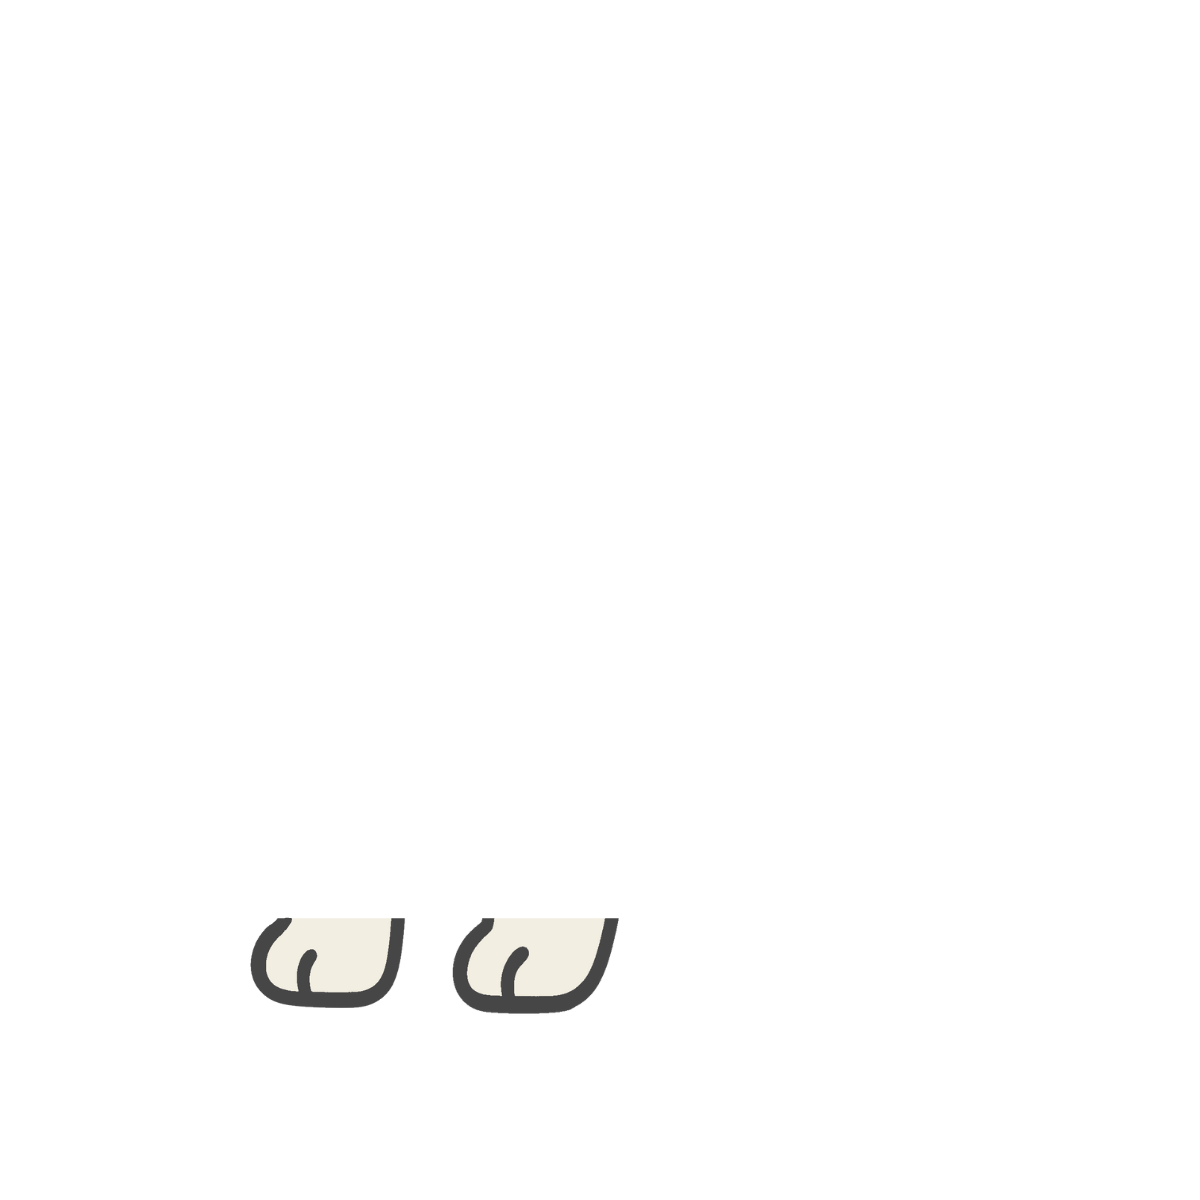
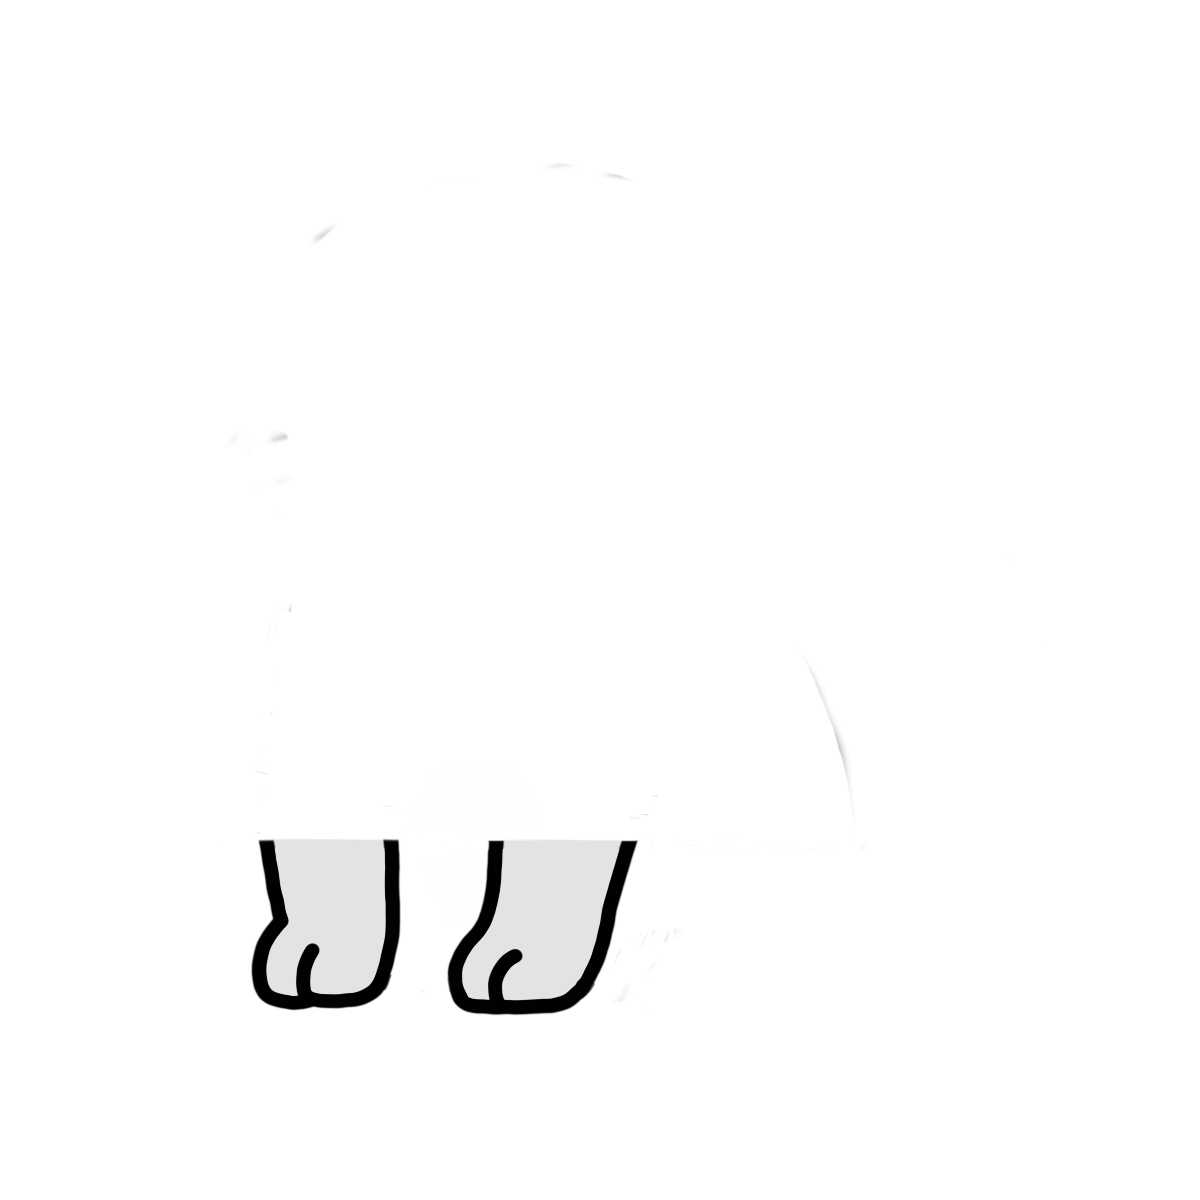
обновление дизайна

Changed region(s): [[0.37, 0.6783, 0.5242, 0.8633], [0.185, 0.6783, 0.3392, 0.8633]]

diff --git a/templates/shop.html b/templates/shop.html
@@ -45,10 +45,9 @@
     <select name="ears" required>
       {% set e = form_data.ears %}
       <option value="Острые в разные стороны" {{ 'selected' if e=='Острые в разные стороны' else '' }}>Острые в разные стороны</option>
-      <option value="Стоячие"                  {{ 'selected' if e=='Стоячие'                  else '' }}>Стоячие</option>
+      <option value="Круглые"                  {{ 'selected' if e=='Круглые'                  else '' }}>Круглые</option>
       <option value="Скругленные"              {{ 'selected' if e=='Скругленные'              else '' }}>Скругленные</option>
     </select>
-
     <label>Лапки</label>
     <select name="paws" required>
       {% set p = form_data.paws %}

diff --git a/app.py b/app.py
@@ -56,16 +56,6 @@ def index():
 def about():
     return render_template("about.html", title="О нас")
 
-def _ensure_layer_or_fallback(filename: str) -> str:
-    """Вернёт путь к слою, если есть; иначе путь к special.png (если и его нет — 404)."""
-    candidate = os.path.join(LAYERS_DIR, filename)
-    if os.path.isfile(candidate):
-        return candidate
-    if os.path.isfile(SPECIAL_IMG):
-        return SPECIAL_IMG
-    # если и фолбэк отсутствует — бросаем 404
-    raise NotFound("Ни слой, ни special.png не найдены")
-
 def _slug(s: str) -> str:
     return s.strip().lower().replace(" ", "-")
 
@@ -104,16 +94,19 @@ def _cat_layer_paths(breed: str, color: str, ears: str, paws: str, container: st
         if os.path.isfile(p):
             paths.append(p)
         else:
+            print(f"ERROR! LAYER {LAYERS_DIR} {fn} NOT FOUND!")
             missing = True  # какого-то слоя не хватает
 
-    print(filenames)
+    print("Requested files list: ", filenames)
 
     # если вообще ничего не нашли, но есть special — отдаём только special
     if not paths and os.path.isfile(SPECIAL_IMG):
+        print("ERROR! NO IMAGES!")
         return [SPECIAL_IMG]
 
     # если чего-то не хватает и special существует — кладём special поверх всех
     if missing and os.path.isfile(SPECIAL_IMG):
+        print("ERROR! LAYER(S) NOT FOUND!")
         paths.append(SPECIAL_IMG)
 
     if not paths:
